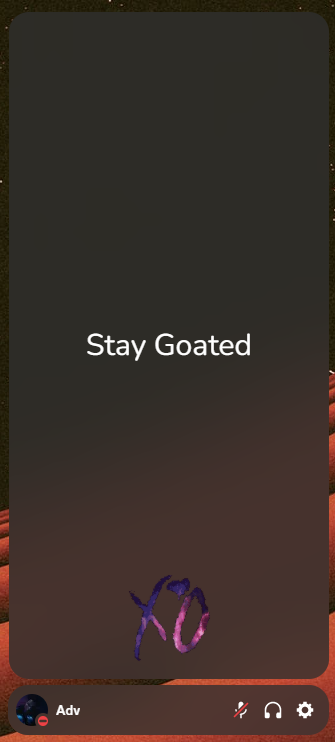
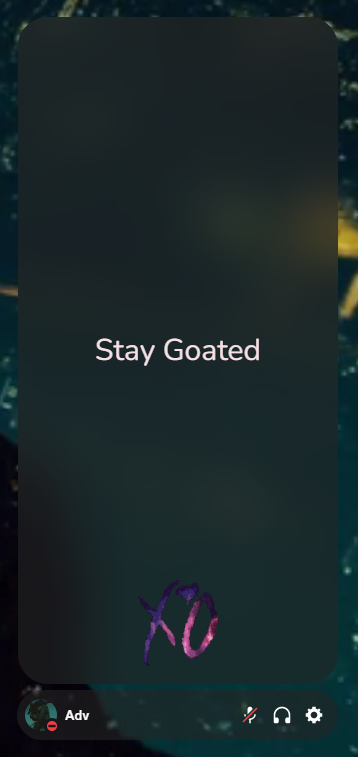
Update theme

diff --git a/xopichu.theme.css b/xopichu.theme.css
@@ -158,3 +158,12 @@
 .container-2kTWmC {
   background: var(--background-accent) !important;
 }
+:root .ready-3BZNWT + .text-2bYgPB::before {
+  content: "";
+  position: absolute;
+  bottom: 100px;
+  left: 50px;
+  width: 200px;
+  height: 200px;
+  background: url("https://raw.githubusercontent.com/4dvyte/XOPichu/main/assets/xo-mini.png") center/80% no-repeat !important;
+}

diff --git a/xopichu-flat.theme.css b/xopichu-flat.theme.css
@@ -189,3 +189,12 @@
 .header-145e10.expanded-2H1xJ- {
   background: none !important;
 }
+:root .ready-3BZNWT + .text-2bYgPB::before {
+  content: "";
+  position: absolute;
+  bottom: 100px;
+  left: 50px;
+  width: 200px;
+  height: 200px;
+  background: url("https://raw.githubusercontent.com/4dvyte/XOPichu/main/assets/xo-mini.png") center/80% no-repeat !important;
+}
